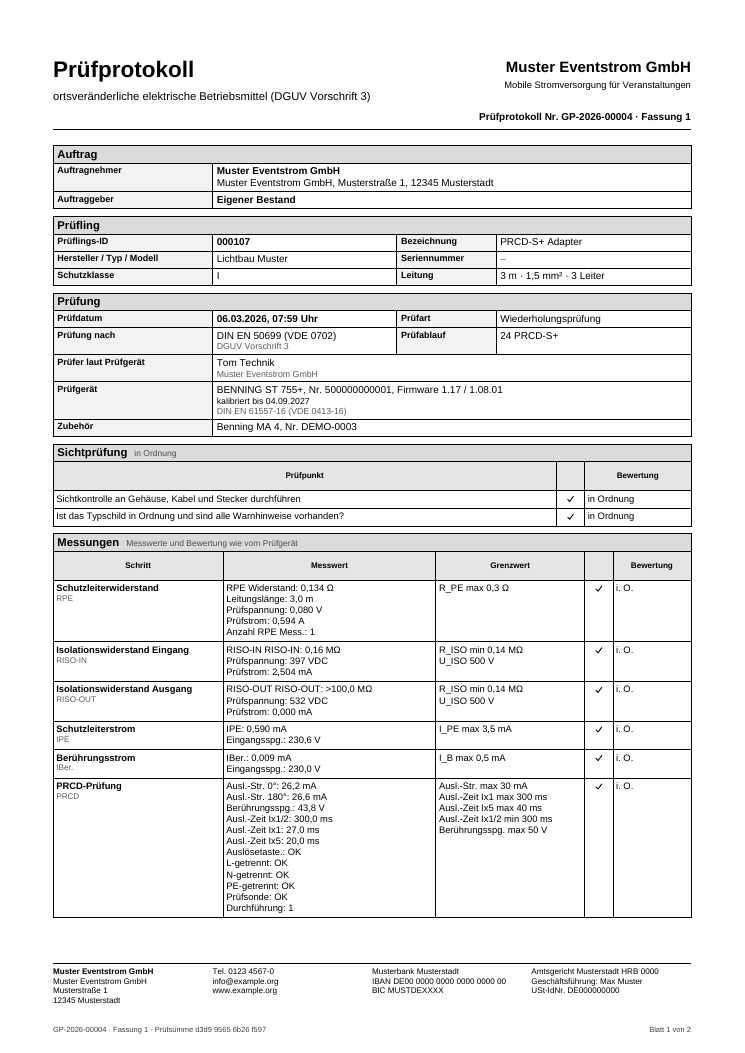
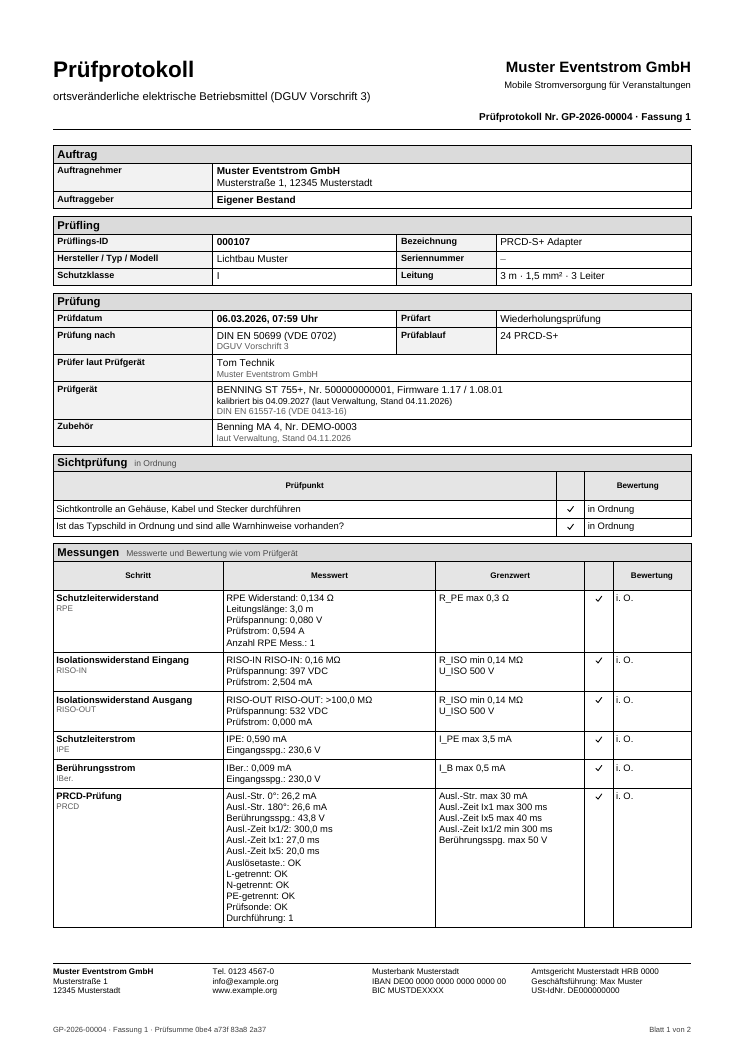
Geräteprüfung: Korrektur nach Schlüsselwechsel neu anfordern, Bilder
Eine Korrektur, deren Siegel unter einem früheren app.key entstand, ließ
sich nie mehr unterschreiben, und die Integritätsprüfung fand nichts.
Jetzt trägt die Anforderung die Kennung ihres Schlüssels: Mit einem
anderen Schlüssel ist sie „nicht prüfbar“ (Befund), Unterschreiben geht
nicht, und sie lässt sich neu anfordern. Ohne Kennung (per SQL gesetzt)
bleibt es „nicht gesiegelt“. Bildschirmfotos der Geräteprüfung neu.

Claude-Session: https://claude.ai/code/session_01NdNDGfCteWePkd7EenfbVk

diff --git a/src/Geraetepruefung/PruefberichtService.php b/src/Geraetepruefung/PruefberichtService.php
@@ -466,6 +466,10 @@ final class PruefberichtService
                 . (self::STATUS[(string) $letzte['status']] ?? (string) $letzte['status']) . '“ ohne Nachfolger) – bitte prüfen lassen.');
         }
         if ($letzte !== null) {
+            if (!self::korrekturPruefbar($letzte)) {
+                throw new \DomainException('Die Korrektur von ' . $letzte['nummer'] . ' wurde unter einem früheren Schlüssel (app.key) angefordert und lässt sich '
+                    . 'nicht mehr bestätigen – bitte die Korrektur neu anfordern.');
+            }
             if (!self::korrekturGesiegelt($letzte)) {
                 throw new \DomainException('Die Korrektur von ' . $letzte['nummer'] . ' ist nicht gesiegelt (Grund, Konto oder Zeit nachträglich geändert?) '
                     . '– bitte „bin/power geraetepruefung:pruefen“ ausführen lassen.');
@@ -599,7 +603,10 @@ final class PruefberichtService
         if ($b === null) {
             return ['ok' => false, 'status' => 404, 'message' => 'Diesen Prüfbericht gibt es nicht.'];
         }
-        if ($b['status'] !== 'gueltig') {
+        // Eine Korrektur, die unter einem früheren Schlüssel (app.key) angefordert wurde, lässt sich nicht
+        // mehr bestätigen – sie wird mit dem jetzigen Schlüssel neu angefordert.
+        $neuAnfordern = $b['status'] === 'korrektur' && !self::korrekturPruefbar($b);
+        if ($b['status'] !== 'gueltig' && !$neuAnfordern) {
             return ['ok' => false, 'status' => 409, 'pruefung_id' => (int) $b['pruefung_id'], 'message' => $b['status'] === 'korrektur'
                 ? 'Für ' . $b['nummer'] . ' ist schon eine Korrektur angefordert.'
                 : $b['nummer'] . ' ist schon ersetzt – korrigiert wird die jüngste Fassung.'];
@@ -612,8 +619,9 @@ final class PruefberichtService
         // Grund stünde beim nächsten Unterschreiben eingefroren in Fassung n+1.
         $am = gmdate('c');
         $von = (int) Auth::id();
-        $n = Database::execute("UPDATE gp_berichte SET status = 'korrektur', korrektur_grund = ?, korrektur_von = ?, korrektur_am = ?, korrektur_siegel = ?
-            WHERE id = ? AND status = 'gueltig'", [$grund, $von, $am, self::korrekturSiegel($berichtId, (int) $b['fassung'], $grund, $von, $am), $berichtId]);
+        $n = Database::execute("UPDATE gp_berichte SET status = 'korrektur', korrektur_grund = ?, korrektur_von = ?, korrektur_am = ?, korrektur_siegel = ?,
+            korrektur_schluessel_id = ? WHERE id = ? AND status = ?", [$grund, $von, $am, self::korrekturSiegel($berichtId, (int) $b['fassung'], $grund, $von, $am),
+            self::schluesselId(), $berichtId, (string) $b['status']]);
         if ($n !== 1) {
             return ['ok' => false, 'status' => 409, 'pruefung_id' => (int) $b['pruefung_id'], 'message' => 'Der Bericht wurde inzwischen geändert – bitte die Seite neu laden.'];
         }
@@ -658,8 +666,13 @@ final class PruefberichtService
         } elseif ($nachfolger !== []) {
             $befunde[] = 'Eine neuere Fassung ersetzt diesen Bericht, er ist aber nicht als „ersetzt“ geführt – Status nachträglich geändert?';
         }
-        if (($status === 'korrektur' || $b['korrektur_am'] !== null) && (string) $b['schluessel_id'] === self::schluesselId() && !self::korrekturGesiegelt($b)) {
-            $befunde[] = 'Die angeforderte Korrektur ist nicht gesiegelt oder verändert (Status, Grund, Konto oder Zeit) – nachträglich geändert?';
+        if ($status === 'korrektur' || $b['korrektur_am'] !== null) {
+            if (!self::korrekturPruefbar($b)) {
+                $befunde[] = 'Korrektur mit anderem Schlüssel angefordert (' . preg_replace('/[^0-9a-f]/', '', (string) $b['korrektur_schluessel_id'])
+                    . '), nicht prüfbar – bitte die Korrektur neu anfordern.';
+            } elseif (!self::korrekturGesiegelt($b)) {
+                $befunde[] = 'Die angeforderte Korrektur ist nicht gesiegelt oder verändert (Status, Grund, Konto oder Zeit) – nachträglich geändert?';
+            }
         }
 
         // ---------------------------------------------- Inhalt
@@ -1020,6 +1033,17 @@ final class PruefberichtService
     {
         return hash_hmac('sha256', implode("\n", [self::KORREKTUR_TAG, (string) $id, (string) $fassung, $grund, (string) $von, $am]),
             self::siegelSchluessel());
+    }
+
+    /**
+     * Lässt sich das Siegel der Korrektur mit dem jetzigen Schlüssel prüfen? Nur eine Kennung eines
+     * anderen Schlüssels (Wechsel von app.key) macht es unprüfbar; ohne Kennung (per SQL gesetzt)
+     * wird geprüft – und scheitert als „nicht gesiegelt“.
+     */
+    private static function korrekturPruefbar(array $b): bool
+    {
+        $id = (string) ($b['korrektur_schluessel_id'] ?? '');
+        return $id === '' || hash_equals(self::schluesselId(), $id);
     }
 
     /** Ist die Korrektur dieser Zeile vollständig (Grund, Konto, Zeit) und gesiegelt? */

diff --git a/tests/geraetepruefung-berichte.php b/tests/geraetepruefung-berichte.php
@@ -384,6 +384,19 @@ try {
     $k = PruefberichtService::korrektur($bK2['id'], 'Seriennummer falsch');
     pruefe($k['ok'] && PruefberichtService::find($bK2['id'])['status'] === 'korrektur', 'Korrektur angefordert');
     gleich(PruefberichtService::korrektur($bK2['id'], 'noch einmal')['status'], 409, 'nicht zweimal');
+    // Nach einem Wechsel von app.key ist das Siegel der Korrektur nicht prüfbar: kein Unterschreiben,
+    // ein Befund in der Integrität – und die Korrektur lässt sich neu anfordern.
+    $kAlt = Database::first('SELECT korrektur_grund, korrektur_von, korrektur_am, korrektur_siegel, korrektur_schluessel_id FROM gp_berichte WHERE id = ?', [$bK2['id']]);
+    gleich($kAlt['korrektur_schluessel_id'], PruefberichtService::schluesselId(), 'Korrektur mit der Kennung des Schlüssels');
+    Database::execute("UPDATE gp_berichte SET korrektur_schluessel_id = '0000aaaa' WHERE id = ?", [$bK2['id']]);
+    $e = PruefberichtService::unterschreiben([$pKunde2], $u($anfrage()));
+    pruefe(!$e['ok'] && str_contains(implode(' ', array_column($e['fehler'] ?? [], 'message')), 'neu anfordern')
+        && Database::scalar('SELECT COUNT(*) FROM gp_berichte WHERE pruefung_id = ?', [$pKunde2]) === 1, 'Korrektur unter altem Schlüssel: nicht unterschrieben');
+    pruefe(str_contains(implode(' ', PruefberichtService::integritaet($bK2['id'])['befunde']), 'anderem Schlüssel'), '… Befund „nicht prüfbar“');
+    $k = PruefberichtService::korrektur($bK2['id'], 'Seriennummer falsch');
+    $kNeu = Database::first('SELECT korrektur_schluessel_id FROM gp_berichte WHERE id = ?', [$bK2['id']]);
+    pruefe($k['ok'] && $kNeu['korrektur_schluessel_id'] === PruefberichtService::schluesselId() && PruefberichtService::integritaet($bK2['id'])['ok'],
+        '… neu angefordert: mit dem jetzigen Schlüssel gesiegelt');
     pruefe(in_array($pKunde2, array_column(PruefberichtService::liste(['status' => 'offen']), 'id'), true)
         && !in_array($pKunde2, array_column(PruefberichtService::liste(['status' => 'unterschrieben']), 'id'), true), 'die Prüfung ist wieder offen');
     $nAlt = Database::first('SELECT * FROM pruefnachweise WHERE gp_bericht_id = ?', [$bK2['id']]);

diff --git a/CLAUDE.md b/CLAUDE.md
@@ -472,7 +472,7 @@ bash -n deploy/*.sh tests/*.sh tests/hilfen/*.sh && shellcheck -S warning -e SC2
 | `tests/geraetepruefung-fundament.php` | Geräteprüfung, Fundament: Migration 019 (Tabellen, Kundenfelder mit Vorgabe leer, eindeutige Indizes; MySQL-Form durch Lesen – `{{ENGINE}}`, indizierte Texte bis 190 Zeichen, keine Fremdschlüssel), Rechte (Gruppe „Geräteprüfung“, nicht „System“; Standardrollen und die INSERTs der Migration), `Messarten` (`zahl()` ohne float32-Reste, `dezimal()`, Anzeige mit Komma, `zeitLesen()` für alle Formate des Geräts in Europe/Berlin mit Sommer- und Winterzeit, `ortsdatum()`, `monatePlus()` am Monatsende, `norm()`, Grenzwerte, `ergebnisAbleiten()`, Texte), `BenningMuster` (sqlite_master Text für Text gleich `resources/benning/st755-schema.sql`, Seitengröße 1024, Journal delete, Kopf-Bytes 18/19 = 1, Werksdaten ohne Kundendaten, alle festen Fälle mit erwartetem Ergebnis, Zeiten in allen Formaten, gleicher Startwert = gleiche Bytes, `pruefungAnhaengen()`), `Pruefungen` (Schlüssel ohne Fragetext und ohne Kennung des Prüflings – Zeit, Prüfgerät, Ablauf, Werte und Antworten zählen –, `anlegen()` idempotent, Formfehler, Liste mit Filtern), `Prueflinge` (eindeutig je Besitzer ohne Groß/Klein, Kürzen, Inventar nur eigener Bestand, `faelligkeitNeu()`: bestanden → + Intervall, nicht bestanden → am Prüftag, ohne Prüfungen unverändert) (eigene Instanz) |
 | `tests/geraetepruefung-import.php` | Geräteprüfung, Import/Vorlage/Export: Lesen (`BenningDatei`: Zählungen, Quelle mit sha256/DB-Version/Prüfgerät/Firmware, Zeiten in UTC – Winter, Sommer, alle Formate –, abgeleitetes Ergebnis je Fall, auch „Gerät sagt bestanden, ein Wert nicht“ mit Hinweis, Sichtprüfung, Grenzwerte ohne float32-Reste, Werte wie vom Gerät, Kennung getrimmt, leere Kennung übergangen, nie geprüft, außer Betrieb, nur Text/Wahrheitswerte/Listen/Ganzzahlen, Fingerabdruck stabil), Ablehnen (keine SQLite, leer, zu groß, WAL, beschädigt, Ansicht statt Tabelle, fehlende Tabelle und Spalte, zu viele Zeilen – echt und über `BenningDatei::$grenzen` –; berechnete Spalte auch in einer unbekannten Tabelle ohne Speicheranstieg, Funktions-DEFAULT, Ausdrucks- und Teilindex, CHECK (auch mit Kommentar vor der Klammer) – das Schema des Geräts bleibt lesbar; Texte gekürzt; fremder Trigger und unbekannte Tabelle → lesbar, aber keine Vorlage; keine Kopie bleibt in `storage/cache`), Vorlage (geleerte Tabellen ohne Zeilen und `sqlite_sequence`, Einstellungen per `quote()` und Schema Text für Text gleich, Seitengröße 1024, Journal delete, Kopf-Bytes 18/19 = 1, keine Namen, Kennungen, Anschriften im Byte-Strom, zweimal gebaut gleiche Bytes), Import (Vorschläge, Zuordnung, gleiche Kennung zweimal beim selben Kunden → ein Prüfling, neuer Kunde nur mit „Kunden pflegen“, Sperre gegen Doppelklick (Sperrdatei aus dem echten Pfad, alte fremde räumt die Wartung weg), Schreibsperre eines Updates, eine Transaktion, bei vorhandenen Kunden nur leere Felder, Beleg und Audit nur mit Zahlen, idempotent auch mit der Sicherung, am Gerät umbenannt → Prüfung „schon da“ beim bisherigen Prüfling mit Hinweis, „hier anders“ nur mit Haken und gesehenem Stand, Inventar-Vorschlag nie Tanksensor, dieselbe Vorlage nicht doppelt, Vorschau ablegen/verwerfen/aufräumen), Export (ohne Vorlage abgelehnt, Schema und Einstellungen gleich der Vorlage, Kunden mit `PM-EIGEN`/Kundennummer/`PM-K<id>`, ohne gültigen Prüfablauf, ohne Leitungsangaben bzw. mit Intervall 0 und mit einem Ablauf, der hier anders steht als in der Vorlage, übergangen, gezählt und gemeldet – kein Gerät mit 0 m/0 mm²/0 Leitern/Intervall 0 –, Name des Ablaufs genau wie `Pruefung_Name` (auch mit Leerzeichen am Ende), Hersteller angehängt, Fragen, Vorlage mit Funktions-DEFAULT → Meldung; Re-Import mit „am Gerät“ eingetragenen Prüfungen erkennt Kunden und Prüflinge, nur die neuen Prüfungen kommen; zweites Prüfgerät mit anderem Ablauf 1000001 → Hinweis, ohne Vorlage Prüfling ohne ihn; Kunde gelöscht → gemerkte Zuordnung weg), HTTP (Seiten ohne PHP-Meldung und Inline-JS, Dateifeld mit eigenem Rat statt dem für PDF – app.js unter Node –, Upload → Vorschau, ohne Token und abgeschnitten nichts, geänderte Zuordnung ohne Blick auf die Prüflinge nichts, Download mit Kopfzeilen, Prüfabläufe mit Norm und Zubehör, nur sehen → 403, Schreibsperre) (eigene Instanz, eigener PHP-Server, nur die erfundene Datenbank aus `BenningMuster`) |
 | `tests/geraetepruefung-prueflinge.php` | Geräteprüfung, Prüflinge: `Prueflinge::speichern()` (Kennung Pflicht, höchstens 50 Zeichen ohne stilles Kürzen, je Besitzer eindeutig ohne Groß/Klein; Kunde muss es geben; Inventarstück nur beim eigenen Bestand, nie Tanksensor, nie zweimal, nur mit „Datenquellen ansehen“; nur ein gültiger Prüfablauf; Zahlen mit Komma, Intervall 0–600, mit Prüfablauf Länge/Querschnitt/Leiter > 0 und Intervall ≥ 1 Pflicht; Daten von Hand nur ohne Prüfungen; Besitzer wechseln nur ohne Prüfbericht; Audit nur IDs), Liste/Anzahl/Zahlen (Filter Besitzer, fällig, Betrieb, Suche mit „%“/„_“ wörtlich; nicht bestanden = überfällig; Fälligkeit mit Symbol und Wort), Löschen nur ohne Prüfungen, Inventar (Löschen lässt den Prüfling, Auswahl ohne Tanksensor), Kunden (Anschrift und Kontakt gesäubert, nie im Audit und in `KundenSicht`, Löschen mit Prüflingen abgelehnt), HTTP (Übersicht mit Importen nur als Zahlen über 0 mit deutschen Beschriftungen, Liste, Formular mit Vorbelegung aus Kunde und Inventar, Detail – letzte Prüfung von Hand ohne Ergebnis „Ergebnis nicht bekannt“ –, unverändert speichern ändert nichts, CSRF, Eingaben bleiben nach Fehler, fremde IDs 404, nur ansehen → kein Formular, Kundenzugang nie, Karte „DGUV V3“ am Inventar, nie am Tanksensor), Ansichten ohne Inline-JS, jede Zelle mit `data-label` (eigene Instanz, eigener PHP-Server) |
-| `tests/geraetepruefung-berichte.php` | Geräteprüfung, Prüfberichte: Unterschreiben nur mit Recht, Qualifikation und vollem Namen im Konto, höchstens 25, Kennung, Name = Konto, Ort, Prüfart, Striche (422, nichts geschrieben), anderer Prüfer laut Gerät nur mit „Verantwortung übernehmen“; Nummer `GP-<Jahr>-<5 Stellen>` (Jahr aus dem Ortsdatum, Silvesternacht), Inhalt nur Text, `inhalt_hash`, Siegel über die Kette, PDF gespeichert und neu erzeugt byte-gleich, Kalibrierung und Zubehör aus „Prüfgeräte“ mit „laut Verwaltung, Stand …“, nach dem Prüftag geändert → Hinweis, nächste Prüfung; Idempotenz (dieselbe Kennung → Erfolg ohne neue Zeile, andere Striche oder anderes Konto → 409, dieselben Striche mit neuer Kennung → 422, auch aus einem Übergabebericht – und umgekehrt nimmt `BerichtService::strichePruefen` die Striche eines Prüfberichts nicht an), Sammelunterschrift über 30 Prüfungen in zwei Stücken (eine Unterschrift, Nummern ohne Lücke), gelöschte Nummer nie wieder; Korrektur (Grund, nur von „gültig“, Fassung 2 `-K1` mit dem jetzigen Stand, Vorgänger ersetzt; Neuversuch eines alten Durchgangs nach der Korrektur → keine Fassung mit der alten Unterschrift; per SQL gesetzte Korrektur oder geänderter Grund → Befund, nie eingefroren); Prüfnachweis (bestandenes Kundengerät → Entwurf mit den Bytes des PDF – ohne `kunden.nachweise` keiner, Hinweis, nachholbar –, im Kundenbereich erst nach Freigabe, nicht bestanden nie, eigener Bestand nur von Hand, nie zweimal, nie an einen anderen Kunden, eingefrorene Felder, Korrektur zieht den Entwurf zurück, ein freigegebener bleibt mit Hinweis); Integrität (Inhalt, Name, Striche, Schlüssel, PDF, Erzeuger, Status, Kunde verändert → Befund), Kommandozeile (`geraetepruefung:pruefen` Exit 0/1 ohne Kundendaten, `--pdf`, `geraetepruefung:pdf` 0640, nie überschreiben, `--fassung`); HTTP (Liste und Detail ohne PHP-Meldung und Inline-JS, 404, Unterschreiben als JSON: ohne Token 419, ohne Recht 403, Schreibsperre 503 mit `wartung` und `Retry-After`, PDF mit Kopfzeilen und gespeicherten Bytes, Kundenzugang abgewiesen); `geraetepruefung.js` unter Node (Stücke, 503-Wiederholung, eine Kennung) (eigene Instanz, eigener PHP-Server) |
+| `tests/geraetepruefung-berichte.php` | Geräteprüfung, Prüfberichte: Unterschreiben nur mit Recht, Qualifikation und vollem Namen im Konto, höchstens 25, Kennung, Name = Konto, Ort, Prüfart, Striche (422, nichts geschrieben), anderer Prüfer laut Gerät nur mit „Verantwortung übernehmen“; Nummer `GP-<Jahr>-<5 Stellen>` (Jahr aus dem Ortsdatum, Silvesternacht), Inhalt nur Text, `inhalt_hash`, Siegel über die Kette, PDF gespeichert und neu erzeugt byte-gleich, Kalibrierung und Zubehör aus „Prüfgeräte“ mit „laut Verwaltung, Stand …“, nach dem Prüftag geändert → Hinweis, nächste Prüfung; Idempotenz (dieselbe Kennung → Erfolg ohne neue Zeile, andere Striche oder anderes Konto → 409, dieselben Striche mit neuer Kennung → 422, auch aus einem Übergabebericht – und umgekehrt nimmt `BerichtService::strichePruefen` die Striche eines Prüfberichts nicht an), Sammelunterschrift über 30 Prüfungen in zwei Stücken (eine Unterschrift, Nummern ohne Lücke), gelöschte Nummer nie wieder; Korrektur (Grund, nur von „gültig“, Fassung 2 `-K1` mit dem jetzigen Stand, Vorgänger ersetzt; Neuversuch eines alten Durchgangs nach der Korrektur → keine Fassung mit der alten Unterschrift; per SQL gesetzte Korrektur oder geänderter Grund → Befund, nie eingefroren; unter einem anderen Schlüssel angefordert → nicht unterschreibbar, Befund „nicht prüfbar“, neu anforderbar); Prüfnachweis (bestandenes Kundengerät → Entwurf mit den Bytes des PDF – ohne `kunden.nachweise` keiner, Hinweis, nachholbar –, im Kundenbereich erst nach Freigabe, nicht bestanden nie, eigener Bestand nur von Hand, nie zweimal, nie an einen anderen Kunden, eingefrorene Felder, Korrektur zieht den Entwurf zurück, ein freigegebener bleibt mit Hinweis); Integrität (Inhalt, Name, Striche, Schlüssel, PDF, Erzeuger, Status, Kunde verändert → Befund), Kommandozeile (`geraetepruefung:pruefen` Exit 0/1 ohne Kundendaten, `--pdf`, `geraetepruefung:pdf` 0640, nie überschreiben, `--fassung`); HTTP (Liste und Detail ohne PHP-Meldung und Inline-JS, 404, Unterschreiben als JSON: ohne Token 419, ohne Recht 403, Schreibsperre 503 mit `wartung` und `Retry-After`, PDF mit Kopfzeilen und gespeicherten Bytes, Kundenzugang abgewiesen); `geraetepruefung.js` unter Node (Stücke, 503-Wiederholung, eine Kennung) (eigene Instanz, eigener PHP-Server) |
 | `tests/geraetepruefung-pdf.php` | PDF der Prüfberichte (`PruefberichtPdf`): zweimal erzeugt dieselben Bytes (anderes `eingefroren_am` → andere), `/ID` aus dem `inhalt_hash`, CreationDate, Dateiname ohne Kundendaten; mit poppler A4 auf jeder Seite, Titel ohne Kundendaten, zwei eingebettete Teilschriften, keine Bilder, Texte (Kopf, Firma – der Name nicht doppelt, wenn die Anschrift mit ihm beginnt –, Auftraggeber, Prüfling, Norm, Messwerte mit Komma, Grenzwerte, Ergebnis, nächste Prüfung, Unterschrift, Kalibrierung und Zubehör „laut Verwaltung, Stand …“), Fuß „Blatt x von y“ mit Kurz-Prüfsumme und Tabellenkopf der Messungen auf jeder Seite (80 Schritte), kein .notdef; nicht bestanden, Korrektur, Verantwortung übernommen, ohne Messschritte (eigene Instanz, ohne poppler-utils übersprungen) |
 | `tests/nodered-funktionen.mjs` | Node-RED-Funktionen (auch Analogeingänge: Voltmeter, Analog-Input, Uni-ADC mit `sensorfehler`), `flows.json` passt zu den Quellen |
 | `tests/installation-debian.sh` | `deploy/install-debian.sh` auf frischem Debian 13 mit systemd (Docker): Erstinstallation, zweiter Lauf (Kennwörter, app.key bleiben), Update mit neuem Ordner in `storage/`; Rechte (Code root, `storage/` www-data), Dienste, Anmeldung, Broker, `bin/power pruefen`; Grenzen für Grundrisse, wie PHP-FPM (`-tt`) und nginx (413 je Adresse, auch in Stücken) sie anwenden, das Update hebt alte Grenzen (64M) an, danach knapp 100 MiB über beide hochgeladen und ein Byte mehr abgelehnt; nach dem Update rechnet `powermanagement-kacheln` fehlende Kacheln als www-data (Rest eines getöteten Baus weg); eine von Hand veränderte Site ohne den Block für Grundrisse bleibt, mit Hinweis |

diff --git a/docs/geraetepruefung.md b/docs/geraetepruefung.md
@@ -466,7 +466,11 @@ nie** – sie kommen unverändert aus der Prüfung. Eine angeforderte
 Korrektur lässt sich nicht zurücknehmen; die Prüfung bleibt offen, bis
 jemand unterschreibt. Die Anforderung ist **gesiegelt** (Grund, Konto,
 Zeit): Eine per Datenbank gesetzte „Korrektur angefordert“ meldet die
-Integritätsprüfung, und ihr Grund kommt nie in eine Fassung. Ein Neuversuch
+Integritätsprüfung, und ihr Grund kommt nie in eine Fassung. Wurde
+`app.key` seit der Anforderung gewechselt, lässt sich ihr Siegel nicht mehr
+prüfen: Unterschreiben geht dann nicht, die Integritätsprüfung nennt sie
+„nicht prüfbar“, und wer unterschreiben darf, fordert die Korrektur einfach
+neu an. Ein Neuversuch
 eines älteren Durchgangs (nach einem Netzfehler) unterschreibt keine
 Fassung, die erst danach zur Korrektur ging – sie steht mit „bitte neu
 unterschreiben“ in der Fehlerliste.
